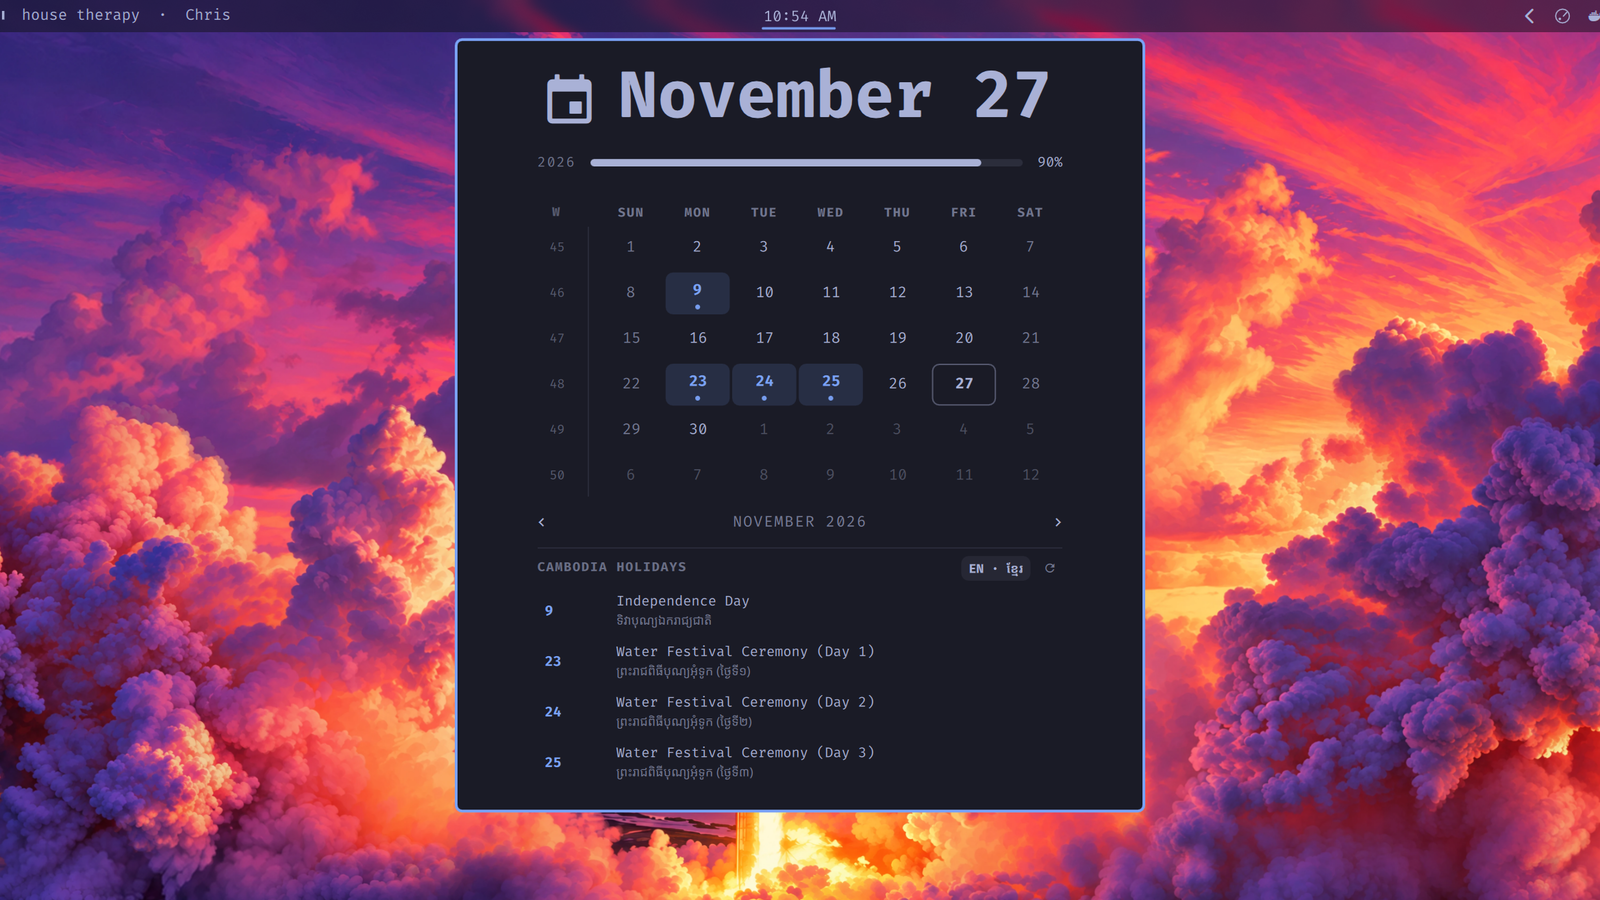
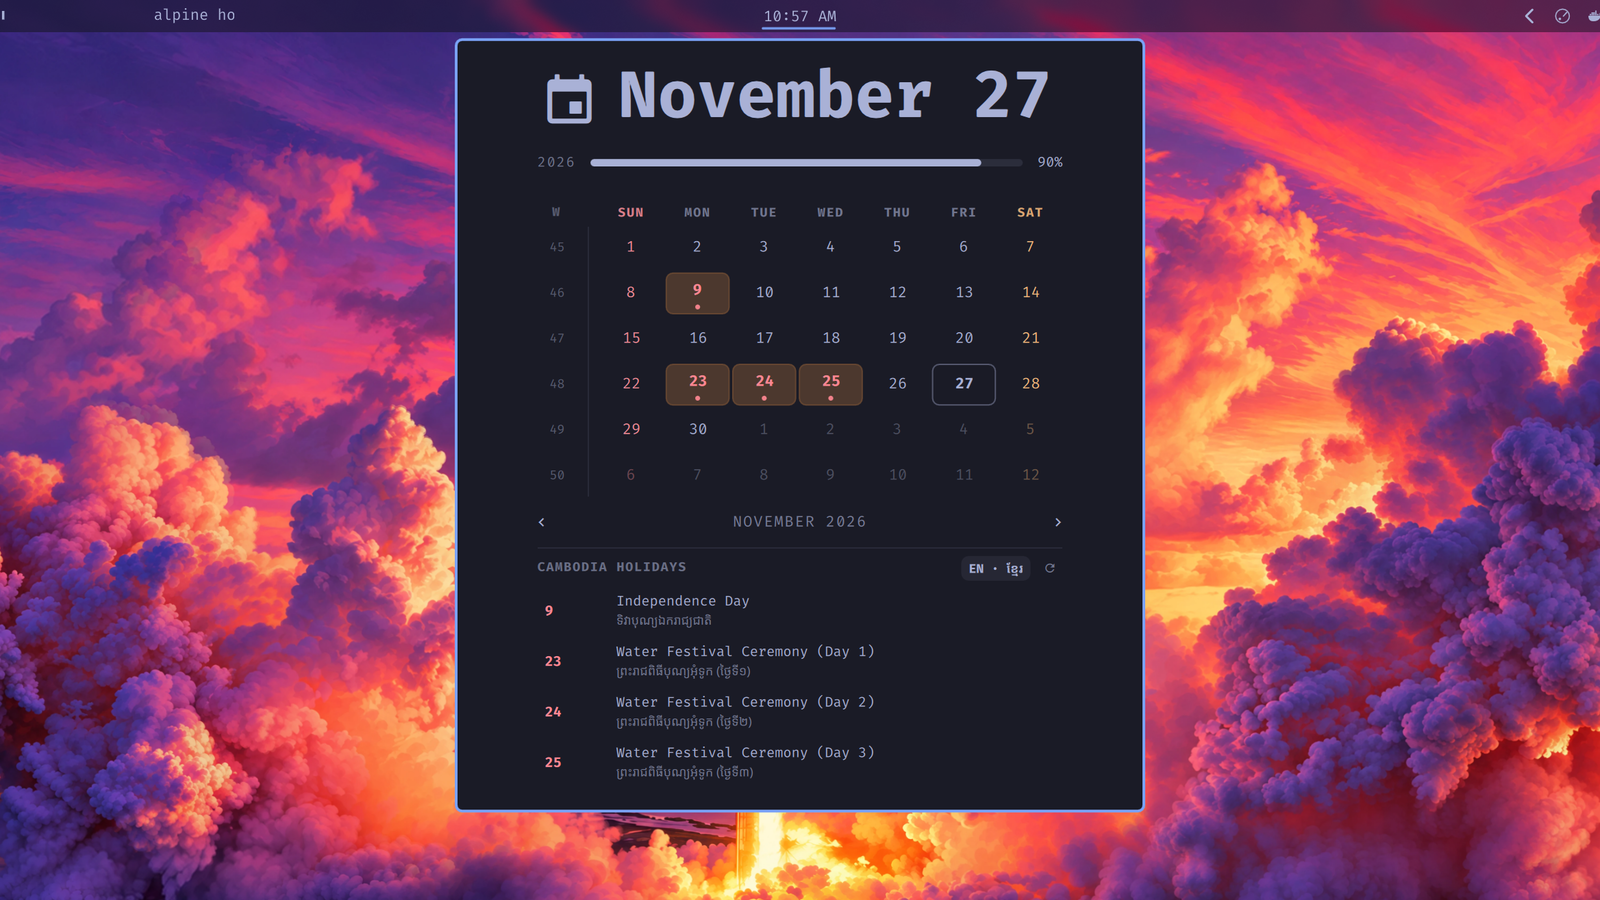
Style Saturday orange, Sunday red, and holidays with warm orange bg and red label

diff --git a/Panel.qml b/Panel.qml
@@ -60,6 +60,13 @@ Panel {
   readonly property color contentForeground: bar ? bar.foreground : Commons.Color.foreground
   readonly property string contentFontFamily: bar ? bar.fontFamily : Style.font.family
 
+  // Soft, eye-friendly weekend & holiday palette (adapts to dark/light themes).
+  readonly property bool isDarkTheme: (Commons.Color.background.r * 0.299 + Commons.Color.background.g * 0.587 + Commons.Color.background.b * 0.114) < 0.5
+  readonly property color saturdayColor: isDarkTheme ? "#f6b97c" : "#c96b20"
+  readonly property color sundayColor: isDarkTheme ? "#f58c97" : "#c94452"
+  readonly property color holidayBgColor: isDarkTheme ? "#ffa047" : "#ffad5c"
+  readonly property color holidayLabelColor: isDarkTheme ? "#ff8792" : "#c43848"
+
   readonly property int cellWidth: Style.space(52)
   readonly property int cellHeight: Style.space(34)
   readonly property int cellSpacing: Style.space(2)
@@ -607,7 +614,11 @@ Panel {
                     horizontalAlignment: Text.AlignHCenter
                     verticalAlignment: Text.AlignVCenter
                     text: root.weekdayLabel(modelData)
-                    color: Qt.darker(root.contentForeground, 1.5)
+                    color: modelData === 0
+                      ? Util.alpha(root.sundayColor, 0.88)
+                      : (modelData === 6
+                          ? Util.alpha(root.saturdayColor, 0.88)
+                          : Qt.darker(root.contentForeground, 1.5))
                     font.family: root.contentFontFamily
                     font.pixelSize: Style.font.caption
                     font.letterSpacing: 1
@@ -655,16 +666,19 @@ Panel {
                       height: root.cellHeight
                       radius: Style.cornerRadius
                       color: {
-                        if (isSelected) return Util.alpha(Commons.Color.accent, 0.26)
-                        if (isHoliday && dayMouse.containsMouse) return Util.alpha(Commons.Color.accent, 0.22)
-                        if (isHoliday && modelData.inMonth) return Util.alpha(Commons.Color.accent, isPublic ? 0.14 : 0.08)
-                        if (isHoliday) return Util.alpha(Commons.Color.accent, 0.05)
+                        if (isSelected) return Util.alpha(root.holidayBgColor, root.isDarkTheme ? 0.34 : 0.40)
+                        if (isHoliday && dayMouse.containsMouse) return Util.alpha(root.holidayBgColor, root.isDarkTheme ? 0.28 : 0.34)
+                        if (isHoliday && modelData.inMonth) return Util.alpha(root.holidayBgColor, isPublic ? (root.isDarkTheme ? 0.22 : 0.28) : (root.isDarkTheme ? 0.12 : 0.16))
+                        if (isHoliday) return Util.alpha(root.holidayBgColor, 0.08)
                         return "transparent"
                       }
-                      border.width: (modelData.today || isSelected) ? Style.spacing.hairline : 0
-                      border.color: isSelected
-                        ? Commons.Color.accent
-                        : Style.normalBorderFor(root.contentForeground, Commons.Color.accent)
+                      border.width: (modelData.today || isSelected || (isHoliday && isPublic && modelData.inMonth)) ? Style.spacing.hairline : 0
+                      border.color: {
+                        if (isSelected) return Util.alpha(root.holidayBgColor, 0.9)
+                        if (modelData.today) return Style.normalBorderFor(root.contentForeground, Commons.Color.accent)
+                        if (isHoliday && isPublic && modelData.inMonth) return Util.alpha(root.holidayBgColor, root.isDarkTheme ? 0.32 : 0.45)
+                        return "transparent"
+                      }
 
                       Text {
                         textFormat: Text.PlainText
@@ -672,10 +686,15 @@ Panel {
                         anchors.verticalCenterOffset: dayCell.isHoliday ? -Style.space(2) : 0
                         text: Commons.I18n.formatNumber(modelData.day)
                         color: {
-                          if (dayCell.isHoliday && modelData.inMonth) return Commons.Color.accent
-                          if (dayCell.isHoliday) return Util.alpha(Commons.Color.accent, 0.55)
-                          if (modelData.inMonth)
-                            return modelData.weekend ? Qt.darker(root.contentForeground, 1.45) : root.contentForeground
+                          if (dayCell.isHoliday && modelData.inMonth) return root.holidayLabelColor
+                          if (dayCell.isHoliday) return Util.alpha(root.holidayLabelColor, 0.52)
+                          if (modelData.inMonth) {
+                            if (modelData.weekday === 0) return root.sundayColor
+                            if (modelData.weekday === 6) return root.saturdayColor
+                            return root.contentForeground
+                          }
+                          if (modelData.weekday === 0) return Util.alpha(root.sundayColor, 0.38)
+                          if (modelData.weekday === 6) return Util.alpha(root.saturdayColor, 0.38)
                           return Qt.darker(root.contentForeground, 2.2)
                         }
                         font.family: root.contentFontFamily
@@ -693,8 +712,8 @@ Panel {
                         width: Style.space(4)
                         height: width
                         radius: width / 2
-                        color: Commons.Color.accent
-                        opacity: modelData.inMonth ? (dayCell.isPublic ? 0.95 : 0.55) : 0.35
+                        color: root.holidayLabelColor
+                        opacity: modelData.inMonth ? (dayCell.isPublic ? 0.92 : 0.55) : 0.35
                       }
 
                       MouseArea {
@@ -943,7 +962,7 @@ Panel {
                     height: holidayRowLayout.implicitHeight + Style.space(8)
                     radius: Style.cornerRadius
                     color: isHighlighted
-                      ? Util.alpha(Commons.Color.accent, 0.18)
+                      ? Util.alpha(root.holidayBgColor, root.isDarkTheme ? 0.20 : 0.26)
                       : (rowMouse.containsMouse
                           ? Qt.rgba(root.contentForeground.r, root.contentForeground.g, root.contentForeground.b, 0.06)
                           : "transparent")
@@ -964,7 +983,7 @@ Panel {
                         text: root.holidayRangeLabel(modelData)
                         color: modelData.kind === "observance"
                           ? Qt.darker(root.contentForeground, 1.4)
-                          : Commons.Color.accent
+                          : root.holidayLabelColor
                         font.family: root.contentFontFamily
                         font.pixelSize: Style.font.bodySmall
                         font.bold: true
@@ -1007,7 +1026,7 @@ Panel {
                           ? strings.t("holidays.today")
                           : strings.t("holidays.observance")
                         color: holidayRow.isTodayHoliday
-                          ? Commons.Color.accent
+                          ? root.holidayLabelColor
                           : Qt.darker(root.contentForeground, 1.6)
                         font.family: root.contentFontFamily
                         font.pixelSize: Style.font.caption
